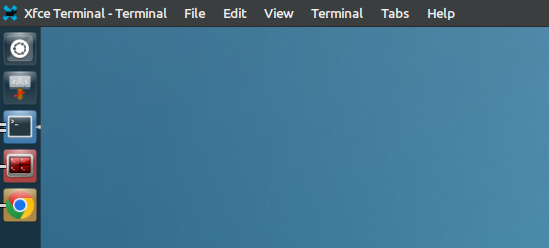
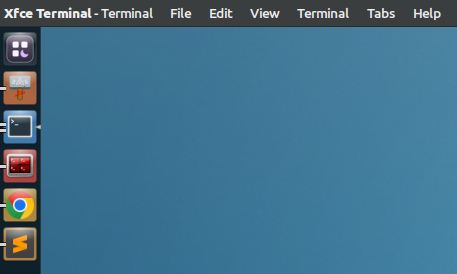
update readme

Changed region(s): [[0.0, 0.0, 1.0, 1.0]]

diff --git a/README.md b/README.md
@@ -1,6 +1,6 @@
 # Lunatic
 
-Unity-style launcher and panel plugins, written in C. Each component builds and installs independently.
+Unity7-style launcher/dock and global-menu panel plugins, written in C without dependencies.
 
 <p align="center">
   <img src="docs/img_0.png" alt="Lunatic launcher and global menu on Xfce">
@@ -12,7 +12,7 @@ Distro-independent X11/EWMH dock with application search, pinned apps, window sw
 
 ```sh
 make launcher
-./launcher/unity-launcher
+./launcher/lunatic-launcher
 sudo make install-launcher
 ```
 
@@ -28,7 +28,7 @@ sudo make install-panel
 xfce4-panel -r
 ```
 
-Add **Unity Global Menu** through **Panel → Add New Items**.
+Add **Lunatic Global Menu** through **Panel → Add New Items**.
 
 [Panel requirements, installation and configuration](panel/README.md).
 
@@ -43,6 +43,4 @@ sudo make uninstall     # remove both
 
 Use `uninstall-launcher` or `uninstall-panel` to remove one component.
 
-Before uninstalling, remove the Global Menu items from the panel to disable GTK
-menu export. If enabled, uncheck **Hide title bars of maximized windows** first
-to restore xfwm4 title bars. File removal never edits users’ settings.
+Before uninstalling the panel, follow [removal steps](PACKAGING.md#removal).
